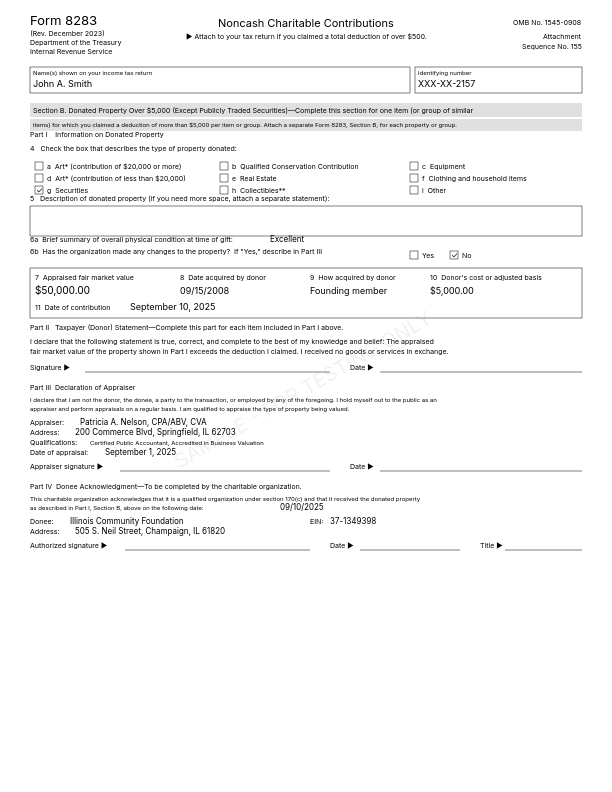
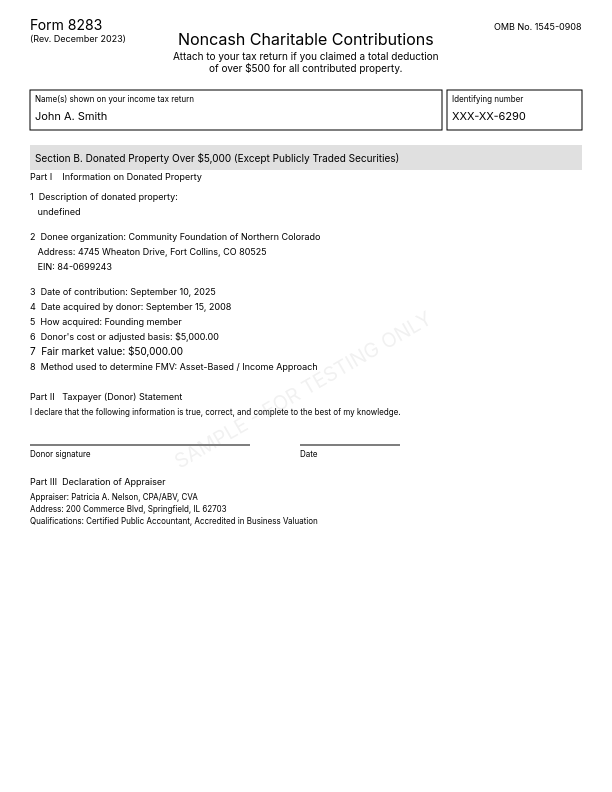
Make charitable OCR fixtures deductible

diff --git a/scripts/validate_fixtures.js b/scripts/validate_fixtures.js
@@ -85,36 +85,42 @@ for (const donation of donations) {
         `${donation.id} must declare an explicit boolean deductible expectation`
     );
 
+    const isPersonalFundraiser = donation.forms.includes('gofundme_receipt');
+    assert(
+        donation.deductible === !isPersonalFundraiser,
+        `${donation.id} deductibility must be true for charitable fixtures and false only for personal fundraisers`
+    );
+
     const expectation = donation.einValidationExpectation;
     if (!expectation) {
         continue;
     }
 
     assert(
-        ['VALID', 'NOT_FOUND', 'PENDING'].includes(expectation.status),
-        `${donation.id} has unsupported EIN validation expectation ${expectation.status}`
+        expectation.status === 'VALID',
+        `${donation.id} charitable OCR fixture must terminate with VALID EIN evidence`
     );
     assert(
         typeof expectation.reason === 'string' && expectation.reason.trim().length > 0,
         `${donation.id} EIN validation expectation must explain its evidence contract`
     );
     assert(
-        donation.deductible === (expectation.status === 'VALID'),
-        `${donation.id} deductible expectation must agree with its EIN validation status`
+        donation.deductible === true && donation.donee.ein !== null,
+        `${donation.id} terminal VALID evidence requires a deductible fixture with an EIN`
     );
 }
 
 const dm3063Expectations = new Map([
-    ['D002', { deductible: false, status: 'PENDING' }],
-    ['D012', { deductible: false, status: 'NOT_FOUND' }],
-    ['D015', { deductible: false, status: 'NOT_FOUND' }],
-    ['D016', { deductible: false, status: 'NOT_FOUND' }],
-    ['D017', { deductible: false, status: 'NOT_FOUND' }],
-    ['D019', { deductible: false, status: 'NOT_FOUND' }],
-    ['D022', { deductible: false, status: 'NOT_FOUND' }],
+    ['D002', { deductible: true, status: 'VALID' }],
+    ['D012', { deductible: true, status: 'VALID' }],
+    ['D015', { deductible: true, status: 'VALID' }],
+    ['D016', { deductible: true, status: 'VALID' }],
+    ['D017', { deductible: true, status: 'VALID' }],
+    ['D019', { deductible: true, status: 'VALID' }],
+    ['D022', { deductible: true, status: 'VALID' }],
     ['D023', { deductible: true, status: 'VALID' }],
-    ['D026', { deductible: false, status: 'NOT_FOUND' }],
-    ['D028', { deductible: false, status: 'NOT_FOUND' }]
+    ['D026', { deductible: true, status: 'VALID' }],
+    ['D028', { deductible: true, status: 'VALID' }]
 ]);
 
 for (const [id, expected] of dm3063Expectations) {
@@ -133,12 +139,6 @@ for (const [id, expected] of dm3063Expectations) {
         );
     }
 
-    if (expected.status === 'NOT_FOUND') {
-        assert(
-            donation.einValidationExpectation.intentionalSyntheticNoMatch === true,
-            `${id} terminal NOT_FOUND must remain explicitly synthetic`
-        );
-    }
 }
 
 for (const [filename, expected] of expectedDocuments) {
@@ -182,18 +182,16 @@ assert(
 
 const d015 = fixture('D015');
 assert(
-    d015.einValidationExpectation?.status === 'NOT_FOUND' &&
-        d015.einValidationExpectation?.intentionalSyntheticNoMatch === true,
-    'D015 must remain the intentional terminal NOT_FOUND EIN fixture'
+    d015.deductible === true && d015.einValidationExpectation?.status === 'VALID',
+    'D015 must remain a deductible fixture with terminal VALID EIN evidence'
 );
 const d015Manifest = manifestDocuments.get(
     'acknowledgment_letter/acknowledgment_letter_D015.png'
 );
 assert(
     d015Manifest?.expectedFields?.donee_ein === d015.donee.ein &&
-        d015Manifest?.expectedFields?.ein_validation_status === 'NOT_FOUND' &&
-        d015Manifest?.expectedFields?.ein_intentional_synthetic_no_match === true,
-    'D015 manifest must retain the printed EIN and its terminal NOT_FOUND expectation'
+        d015Manifest?.expectedFields?.ein_validation_status === 'VALID',
+    'D015 manifest must retain the printed EIN and its terminal VALID expectation'
 );
 
 const measurementContext = createCanvas(612, 792).getContext('2d');

diff --git a/scripts/generate_from_donations.js b/scripts/generate_from_donations.js
@@ -1662,9 +1662,7 @@ async function main() {
                     donee_ein: donation.donee.ein,
                     ...(donation.einValidationExpectation
                         ? {
-                            ein_validation_status: donation.einValidationExpectation.status,
-                            ein_intentional_synthetic_no_match:
-                                donation.einValidationExpectation.intentionalSyntheticNoMatch
+                            ein_validation_status: donation.einValidationExpectation.status
                         }
                         : {}),
                     contribution_date: donation.contributionDate,

diff --git a/README.md b/README.md
@@ -30,10 +30,12 @@ contribution is **not tax deductible** — useful for testing OCR/classification
 distinguish deductible charitable receipts from non-deductible payment confirmations.
 
 Every donation declares an explicit boolean `deductible` expectation. Omission is invalid
-and never defaults to `true`. Fixtures that exercise a specific EIN outcome also declare
-`einValidationExpectation` with the expected status and evidence rationale. A qualifying
-`VALID` result may be deductible; unresolved, missing, or `NOT_FOUND` evidence remains
-fail-closed.
+and never defaults to `true`. The charitable fixtures D001–D034 are deductible and use
+qualifying organizations; only the personal GoFundMe fixtures D035–D037 are non-deductible.
+Fixtures that exercise terminal organization enrichment also declare a `VALID`
+`einValidationExpectation` with the evidence rationale. Negative EIN outcomes belong in
+the focused EIN-validation test suite rather than changing the meaning of these charitable
+OCR fixtures.
 
 ## Directory Structure
 
@@ -113,7 +115,7 @@ The `donations.json` file defines 37 test donations covering all IRS thresholds:
 ### Vehicles
 | ID | Amount | Forms | Notes |
 |----|--------|-------|-------|
-| D015 | $400 | acknowledgment_letter | Below $500; intentional synthetic EIN expected to reach `NOT_FOUND` |
+| D015 | $400 | acknowledgment_letter | Below $500; verified charitable recipient |
 | D016 | **$500** | acknowledgment_letter | **Boundary** |
 | D017 | **$501** | form_1098c, form_8283_section_a | **Boundary; auction/gross-proceeds basis** |
 | D018 | $12,000 | form_1098c, form_8283_section_a | Auction/gross-proceeds basis |
@@ -245,9 +247,9 @@ Quick reference:
 1. **All documents are SYNTHETIC** - do not use as real tax documents
 2. All documents contain "SAMPLE - FOR TESTING ONLY" watermarks
 3. Donor information uses placeholder values
-4. EINs for real organizations (Red Cross, Goodwill, etc.) are used; fictional orgs have fake EINs
+4. Charitable fixtures use EINs for qualifying organizations; personal fundraisers have no EIN
 5. Forms for the same donation have **matching** donor, donee, date, and amount data
-6. D015 is intentionally annotated as a synthetic terminal `NOT_FOUND` EIN validation fixture; the printed EIN must be retained rather than treated as missing, skipped, or pending
+6. Only D035–D037 are non-deductible; D001–D034 must remain deductible charitable fixtures
 
 ## License
 
